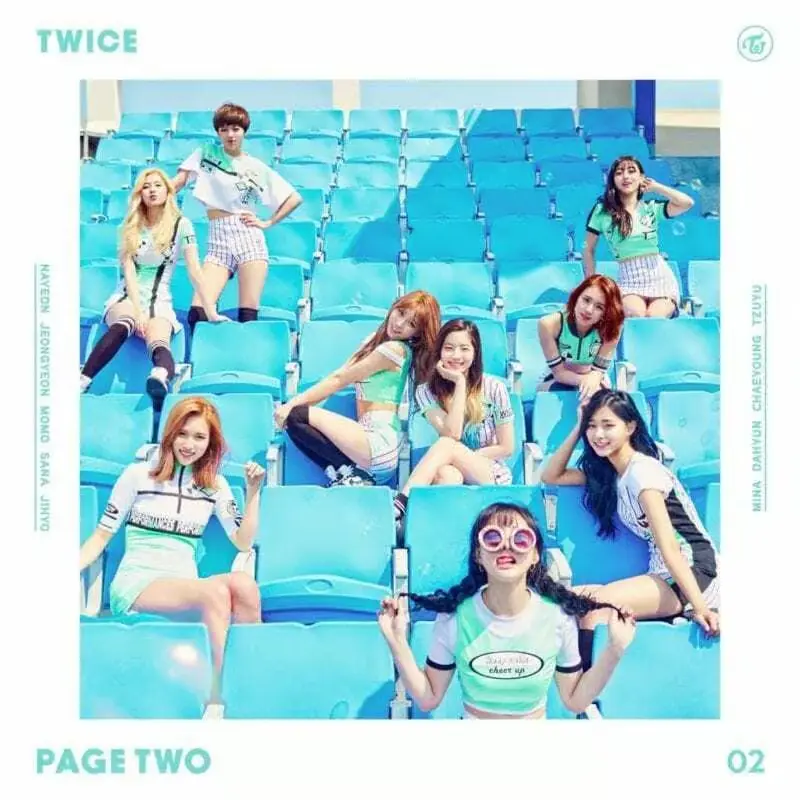
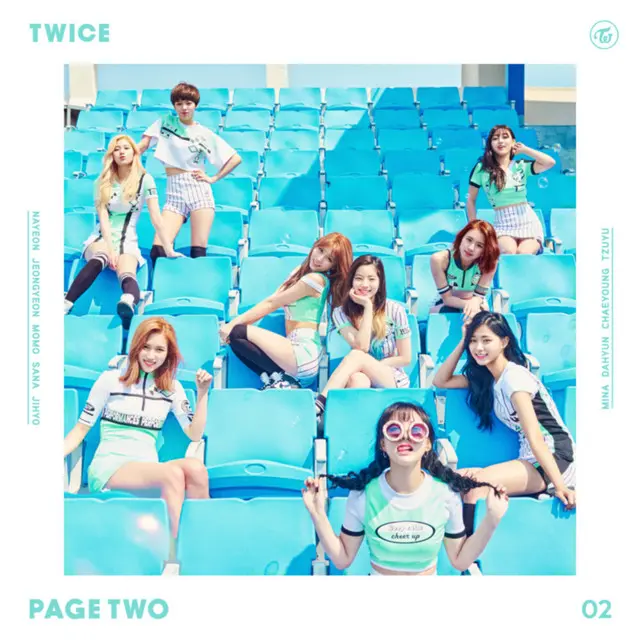
update album images

diff --git a/src/const/discography.ts b/src/const/discography.ts
@@ -1,11 +1,19 @@
 import type { TDiscography } from "../types/discography";
-import bdz from "../assets/discography/bdz.webp";
 import defaultImage from "../assets/discography/default.webp";
+import tenTheStoryGoesOn from "../assets/discography/ten-the-story-goes-on.webp";
+import blink from "../assets/discography/blink.webp";
+import lilFantasyVol1 from "../assets/discography/lil-fantasy-vol-1.webp";
+import theStoryBegins from "../assets/discography/the-story-begins.webp";
+import daringWoman from "../assets/discography/daring-woman.webp";
+import pageTwo from "../assets/discography/page-two.webp";
+import twicecoasterLane1 from "../assets/discography/twicecoaster-lane-1.webp";
+import twicecoasterLane2 from "../assets/discography/twicecoaster-lane-2.webp";
+import whatsThis from "../assets/discography/whats-this.webp";
 
 export const DISCOGRAPHY: TDiscography[] = [
   {
     name: "The Story Begins",
-    image: defaultImage,
+    image: theStoryBegins,
     unit: ["twice"],
     releaseDate: new Date("2015-10-03"),
     types: ["mini-album"],
@@ -34,7 +42,7 @@ export const DISCOGRAPHY: TDiscography[] = [
   },
   {
     name: "Page Two",
-    image: defaultImage,
+    image: pageTwo,
     unit: ["twice"],
     releaseDate: new Date("2016-04-25"),
     types: ["mini-album"],
@@ -66,7 +74,7 @@ export const DISCOGRAPHY: TDiscography[] = [
   },
   {
     name: "TWICEcoaster: Lane 1",
-    image: defaultImage,
+    image: twicecoasterLane1,
     unit: ["twice"],
     releaseDate: new Date("2016-10-24"),
     types: ["mini-album"],
@@ -98,7 +106,7 @@ export const DISCOGRAPHY: TDiscography[] = [
   },
   {
     name: "TWICEcoaster: Lane 2",
-    image: defaultImage,
+    image: twicecoasterLane2,
     unit: ["twice"],
     releaseDate: new Date("2017-02-20"),
     types: ["repackage", "mini-album"],
@@ -151,7 +159,7 @@ export const DISCOGRAPHY: TDiscography[] = [
   },
   {
     name: "Whats's This?",
-    image: defaultImage,
+    image: whatsThis,
     unit: ["twice"],
     releaseDate: new Date("2017-02-24"),
     types: ["mini-album", "digital"],
@@ -1525,7 +1533,7 @@ export const DISCOGRAPHY: TDiscography[] = [
   },
   {
     name: "TEN: The Story Goes On",
-    image: defaultImage,
+    image: tenTheStoryGoesOn,
     unit: ["twice"],
     releaseDate: new Date("2025-10-10"),
     types: ["mini-album"],
@@ -1548,7 +1556,7 @@ export const DISCOGRAPHY: TDiscography[] = [
   },
   {
     name: "Daring Woman (Two Yoo Project Sugar Man OST)",
-    image: defaultImage,
+    image: daringWoman,
     unit: ["nayeon", "jihyo", "chaeyoung", "tzuyu"],
     releaseDate: new Date("2015-12-29"),
     types: ["ost"],
@@ -1725,7 +1733,7 @@ export const DISCOGRAPHY: TDiscography[] = [
   },
   {
     name: "BLINK (Corbyn Besson & TZUYU)",
-    image: defaultImage,
+    image: blink,
     unit: ["tzuyu"],
     releaseDate: new Date("2025-09-26"),
     types: ["digital", "single"],
@@ -1739,7 +1747,7 @@ export const DISCOGRAPHY: TDiscography[] = [
   },
   {
     name: "LIL FANTASY vol.1",
-    image: defaultImage,
+    image: lilFantasyVol1,
     unit: ["chaeyoung"],
     releaseDate: new Date("2025-09-12"),
     types: ["mini-album"],

diff --git a/src/components/Preact/DiscographyFilters.tsx b/src/components/Preact/DiscographyFilters.tsx
@@ -74,7 +74,6 @@ export default function DiscographyFilters() {
       return true;
     });
 
-    // Sort albums
     const sorted = [...filtered].sort((a, b) => {
       switch (sortFilter) {
         case "latest":
